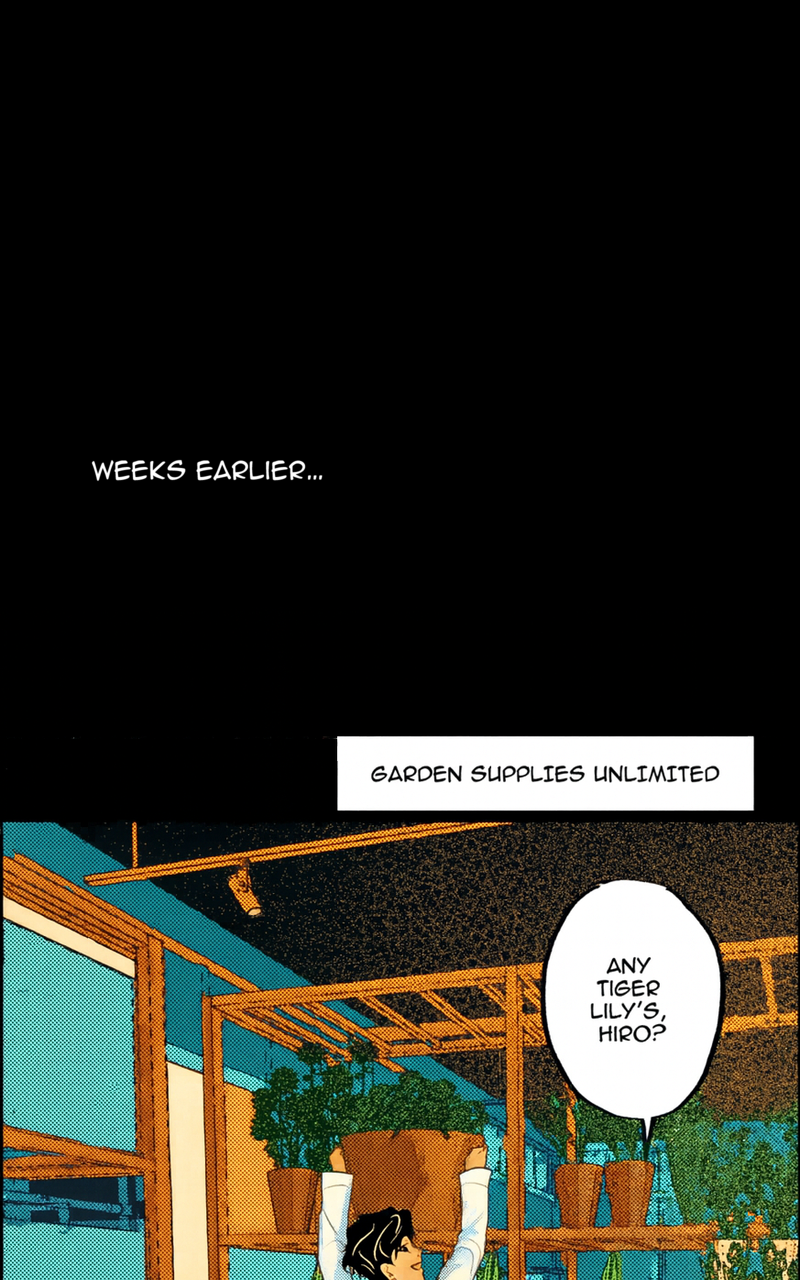
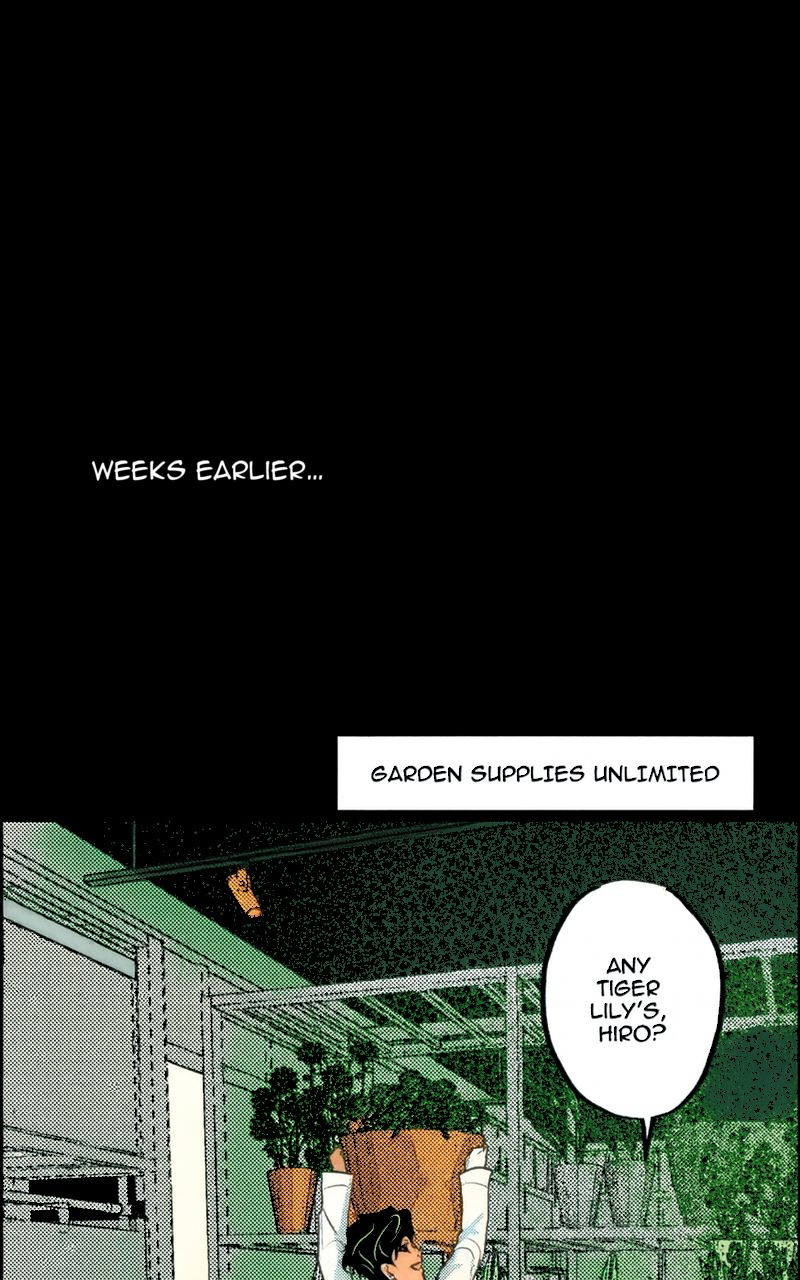
improve prompting

Changed region(s): [[0.0, 0.625, 1.0, 1.0]]

diff --git a/colorizer.js b/colorizer.js
@@ -29,12 +29,14 @@ const MAX_SEGMENT_H = 4000;
 const MIN_SEGMENT_H = 100;
 
 const PROMPT = `
-Colorize this black-and-white webtoon/manga art.
+COLORIZE THIS BLACK-AND-WHITE WEBTOON PANEL.
 
-STRICT:
-- Preserve original line art, screentones, and composition exactly.
-- Do not change any text, bubbles, or SFX.
-- Do not add/remove objects or characters.
+STRICT PRESERVATION RULES:
+- Preserve the original line art exactly; do NOT redraw, re-ink, or change shapes.
+- Preserve screentones/halftone dots and texture; do NOT smooth them away.
+- Preserve all panel composition, perspective, facial structure, and clothing design.
+- Keep deep blacks rich and clean; do not gray them out.
+- Do not add new objects, text, symbols, or background elements.
 - Any area that is solid black in the input MUST stay pure black (#000000). Do not tint, colorize, or lighten black panel dividers or black backgrounds.
 
 COLOR STYLE:
@@ -42,12 +44,13 @@ COLOR STYLE:
 - No sepia / beige / vintage / parchment / "aged paper" look.
 - No global color grading or color cast.
 - Speech bubbles and highlights must remain neutral white (#FFFFFF); use them as white balance reference.
-- Shadows neutral-to-cool (slight blue/purple), not warm brown.
-- Increase saturation and contrast moderately.
+- Clean cel-shading with soft gradient transitions.
+- Crisp edges, minimal color bleed across line boundaries.
+- If unsure about a color, keep it neutral rather than inventing bright colors.
 
-CHARACTERS:
-- Hiro (young male): light Korean complexion, black hair, white shirt, brown apron, blue pants.
-- Old lady (Ms. Chan): gray hair, tan shirt, dark blue long skirt.
+PALETTE LOCKS (MUST FOLLOW):
+- Hiro (young male): light Korean complexion, black hair (#1A1A1A), white shirt (#FFFFFF), brown apron (#8B5E3C), blue pants (#3A5FAE).
+- Ms. Chan (old lady): gray hair (#A0A0A0), tan shirt (#C9A87C), dark blue long skirt (#2B3A67).
 - Keep these character colors consistent across all panels.
 `.trim();
 
@@ -248,6 +251,41 @@ async function isBlankSegment(buf) {
   return darkCount / total >= 0.98;
 }
 
+// ── Post-process: restore black pixels from original ─────────────────────
+// Any pixel that was black in the original input gets forced back to black
+// in the colorized output. This guarantees dividers/backgrounds stay pure black
+// regardless of what the AI does.
+
+async function restoreBlacks(originalBuf, colorizedBuf) {
+  const origRaw = await sharp(originalBuf).ensureAlpha().raw().toBuffer({ resolveWithObject: true });
+  const colRaw = await sharp(colorizedBuf).ensureAlpha().raw().toBuffer({ resolveWithObject: true });
+
+  const oD = origRaw.data;
+  const cD = Buffer.from(colRaw.data); // mutable copy
+  const c = origRaw.info.channels;
+  const total = origRaw.info.width * origRaw.info.height;
+
+  for (let i = 0; i < total; i++) {
+    const p = i * c;
+    if (
+      oD[p] < DARK_THRESHOLD &&
+      oD[p + 1] < DARK_THRESHOLD &&
+      oD[p + 2] < DARK_THRESHOLD
+    ) {
+      cD[p] = 0;
+      cD[p + 1] = 0;
+      cD[p + 2] = 0;
+      cD[p + 3] = 255;
+    }
+  }
+
+  return sharp(cD, {
+    raw: { width: colRaw.info.width, height: colRaw.info.height, channels: c },
+  })
+    .png()
+    .toBuffer();
+}
+
 // Pick the best API size for a given aspect ratio.
 // API only supports: 1024x1024, 1024x1536 (portrait), 1536x1024 (landscape)
 function pickApiSize(w, h) {
@@ -313,6 +351,7 @@ async function colorizeSegment(segBuf, index, total) {
         action: "edit",
         input_fidelity: "high",
         size: apiSize,
+        output_format: "png",
       },
     ],
   });
@@ -342,7 +381,10 @@ async function colorizeSegment(segBuf, index, total) {
     .png()
     .toBuffer();
 
-  return cropped;
+  // Force any pixel that was black in the original back to pure black
+  const restored = await restoreBlacks(segBuf, cropped);
+
+  return restored;
 }
 
 // ── Step 5: Reassemble colorized segments ──────────────────────────────────
